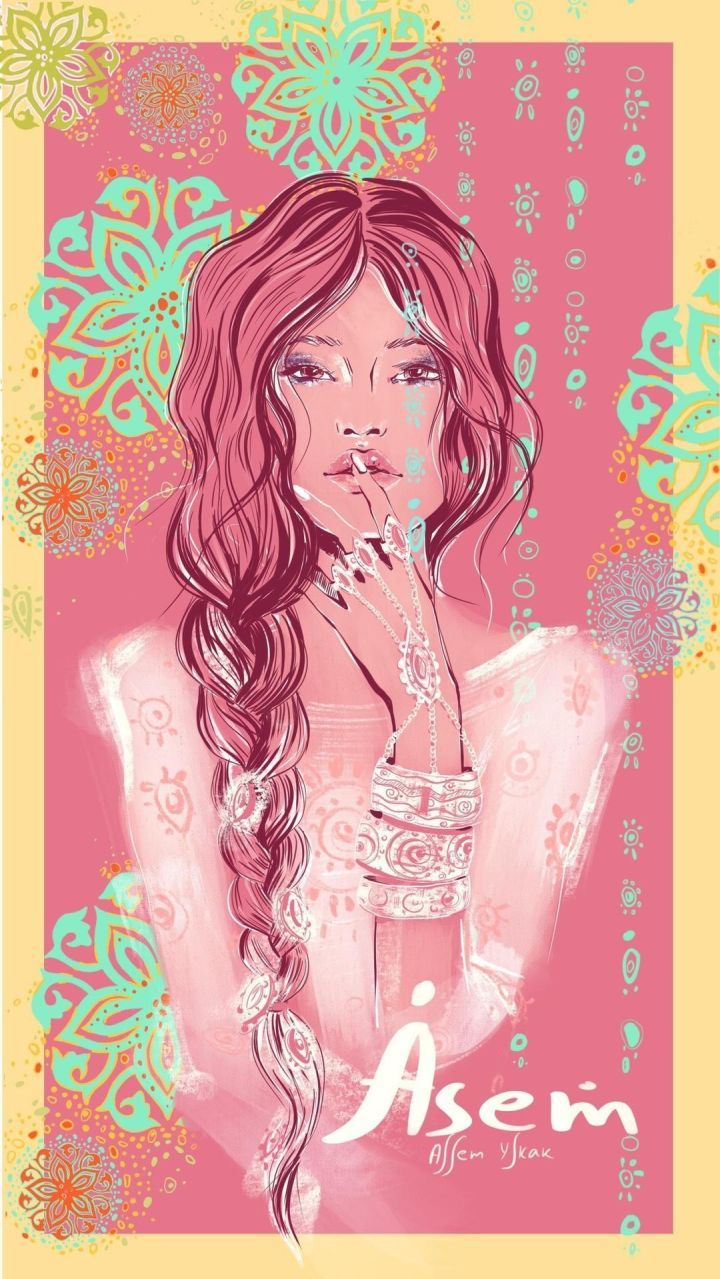
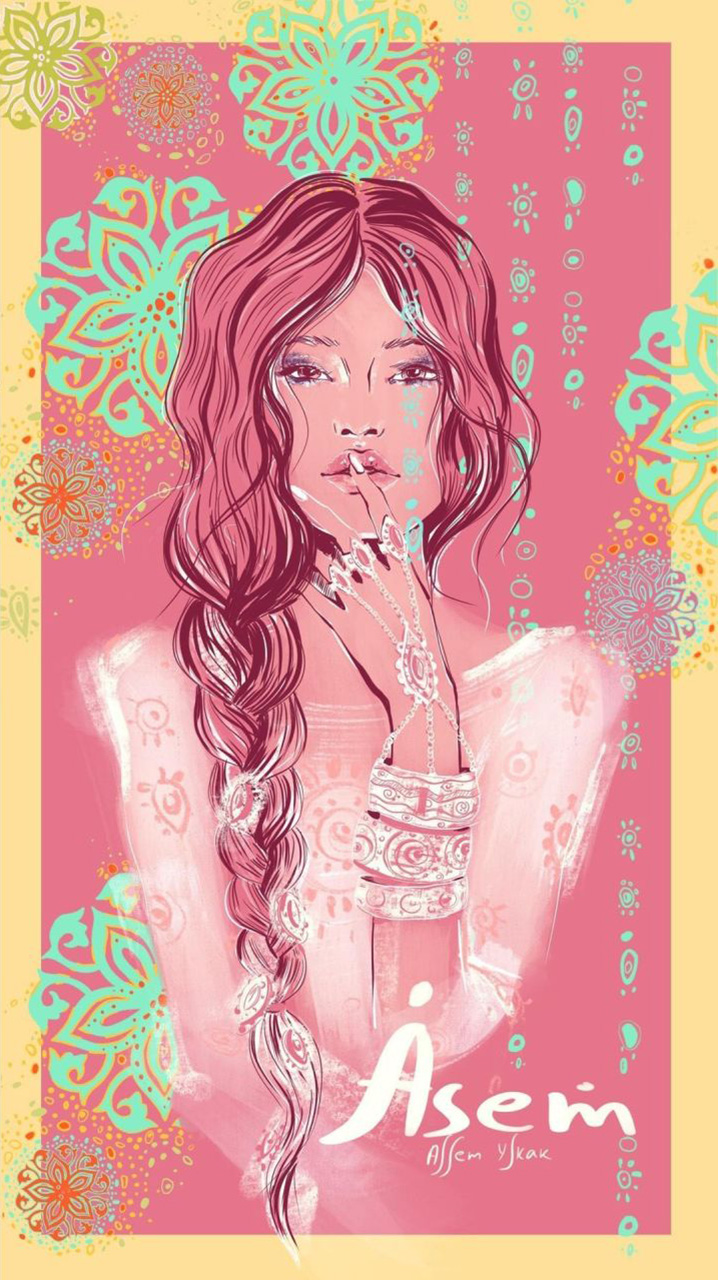
Adjust backgrounds to match inside color

diff --git a/index.html b/index.html
@@ -53,16 +53,16 @@
       </header>
 
       <section class="names">
-        <div class="container" style="background: #fee09a">
+        <div class="container" style="background: #e7748b">
           <div class="name">
             <video playsinline muted loop poster="./names/Assem.jpg">
               <source src="./names/Assem.mp4" type="video/mp4" />
             </video>
-            <img src="./names/Assem.jpg" alt="Assem" width="720" height="1279" />
+            <img src="./names/Assem.jpg" alt="Assem" width="718" height="1280" />
             <div class="progress"></div>
           </div>
         </div>
-        <div class="container" style="background: #75a8e5">
+        <div class="container" style="background: #defcae">
           <div class="name">
             <video playsinline muted loop poster="./names/Aigul.jpg">
               <source src="./names/Aigul.mp4" type="video/mp4" />
@@ -71,7 +71,7 @@
             <div class="progress"></div>
           </div>
         </div>
-        <div class="container" style="background: #bb94d1">
+        <div class="container" style="background: #f4b191">
           <div class="name">
             <video playsinline muted loop poster="./names/Baian.jpg">
               <source src="./names/Baian.mp4" type="video/mp4" />
@@ -80,7 +80,7 @@
             <div class="progress"></div>
           </div>
         </div>
-        <div class="container" style="background: #9bbdea">
+        <div class="container" style="background: #728db2">
           <div class="name">
             <video playsinline muted loop poster="./names/Dinara.jpg">
               <source src="./names/Dinara.mp4" type="video/mp4" />
@@ -89,7 +89,7 @@
             <div class="progress"></div>
           </div>
         </div>
-        <div class="container" style="background: #fe8b67">
+        <div class="container" style="background: #c4a0ca">
           <div class="name">
             <video playsinline muted loop poster="./names/Dina.jpg">
               <source src="./names/Dina.mp4" type="video/mp4" />
@@ -98,7 +98,7 @@
             <div class="progress"></div>
           </div>
         </div>
-        <div class="container" style="background: #fda8a5">
+        <div class="container" style="background: #77b073">
           <div class="name">
             <video playsinline muted loop poster="./names/Janar.jpg">
               <source src="./names/Janar.mp4" type="video/mp4" />
@@ -107,7 +107,7 @@
             <div class="progress"></div>
           </div>
         </div>
-        <div class="container" style="background: #9877b0">
+        <div class="container" style="background: #d5a833">
           <div class="name">
             <video playsinline muted loop poster="./names/Aijan.jpg">
               <source src="./names/Aijan.mp4" type="video/mp4" />
@@ -116,7 +116,7 @@
             <div class="progress"></div>
           </div>
         </div>
-        <div class="container" style="background: #c74082">
+        <div class="container" style="background: #fe8b67">
           <div class="name">
             <video playsinline muted loop poster="./names/Meruert.jpg">
               <source src="./names/Meruert.mp4" type="video/mp4" />
@@ -125,7 +125,7 @@
             <div class="progress"></div>
           </div>
         </div>
-        <div class="container" style="background: #fedf65">
+        <div class="container" style="background: #95a463">
           <div class="name">
             <video playsinline muted loop poster="./names/Jazira.jpg">
               <source src="./names/Jazira.mp4" type="video/mp4" />
@@ -134,7 +134,7 @@
             <div class="progress"></div>
           </div>
         </div>
-        <div class="container" style="background: #fe8b67">
+        <div class="container" style="background: #d580a1">
           <div class="name">
             <video playsinline muted loop poster="./names/Guljan.jpg">
               <source src="./names/Guljan.mp4" type="video/mp4" />
@@ -143,7 +143,7 @@
             <div class="progress"></div>
           </div>
         </div>
-        <div class="container" style="background: #f6c0f4">
+        <div class="container" style="background: #a081c4">
           <div class="name">
             <video playsinline muted loop poster="./names/Aigerim.jpg">
               <source src="./names/Aigerim.mp4" type="video/mp4" />
@@ -152,7 +152,7 @@
             <div class="progress"></div>
           </div>
         </div>
-        <div class="container" style="background: #59ae8d">
+        <div class="container" style="background: #fcb685">
           <div class="name">
             <video playsinline muted loop poster="./names/Aidana.jpg">
               <source src="./names/Aidana.mp4" type="video/mp4" />
@@ -161,7 +161,7 @@
             <div class="progress"></div>
           </div>
         </div>
-        <div class="container" style="background: #cb5191">
+        <div class="container" style="background: #e7818c">
           <div class="name">
             <video playsinline muted loop poster="./names/Raushan.jpg">
               <source src="./names/Raushan.mp4" type="video/mp4" />
@@ -170,7 +170,7 @@
             <div class="progress"></div>
           </div>
         </div>
-        <div class="container" style="background: #6670cf">
+        <div class="container" style="background: #81b3d6">
           <div class="name">
             <video playsinline muted loop poster="./names/Botakoz.jpg">
               <source src="./names/Botakoz.mp4" type="video/mp4" />
@@ -179,7 +179,7 @@
             <div class="progress"></div>
           </div>
         </div>
-        <div class="container" style="background: #b8628d">
+        <div class="container" style="background: #524988">
           <div class="name">
             <video playsinline muted loop poster="./names/Juldyz.jpg">
               <source src="./names/Juldyz.mp4" type="video/mp4" />

diff --git a/main.css b/main.css
@@ -14,7 +14,7 @@ html {
 
 html.scrolled {
   /* last name color, to preserve overscroll color */
-  background: #b8628d;
+  background: #524988;
 }
 
 @media all and (min-width: 800px) {
@@ -133,7 +133,13 @@ body.lock {
 }
 
 .names .name video {
+  position: absolute;
+  top: 0;
+  right: 0;
+  bottom: 0;
+  left: 0;
   width: 100%;
+  height: 100%;
 }
 
 .names .name img {

diff --git a/main.js b/main.js
@@ -28,7 +28,7 @@ names.forEach(el => {
 });
 
 function onScroll() {
-  document.documentElement.classList.toggle('scrolled', window.scrollY > 0);
+  document.documentElement.classList.toggle('scrolled', window.scrollY > 500);
   const screenHeight = window.innerHeight || document.documentElement.clientHeight;
   const screenCenter = screenHeight / 2;
   names.forEach(el => {
